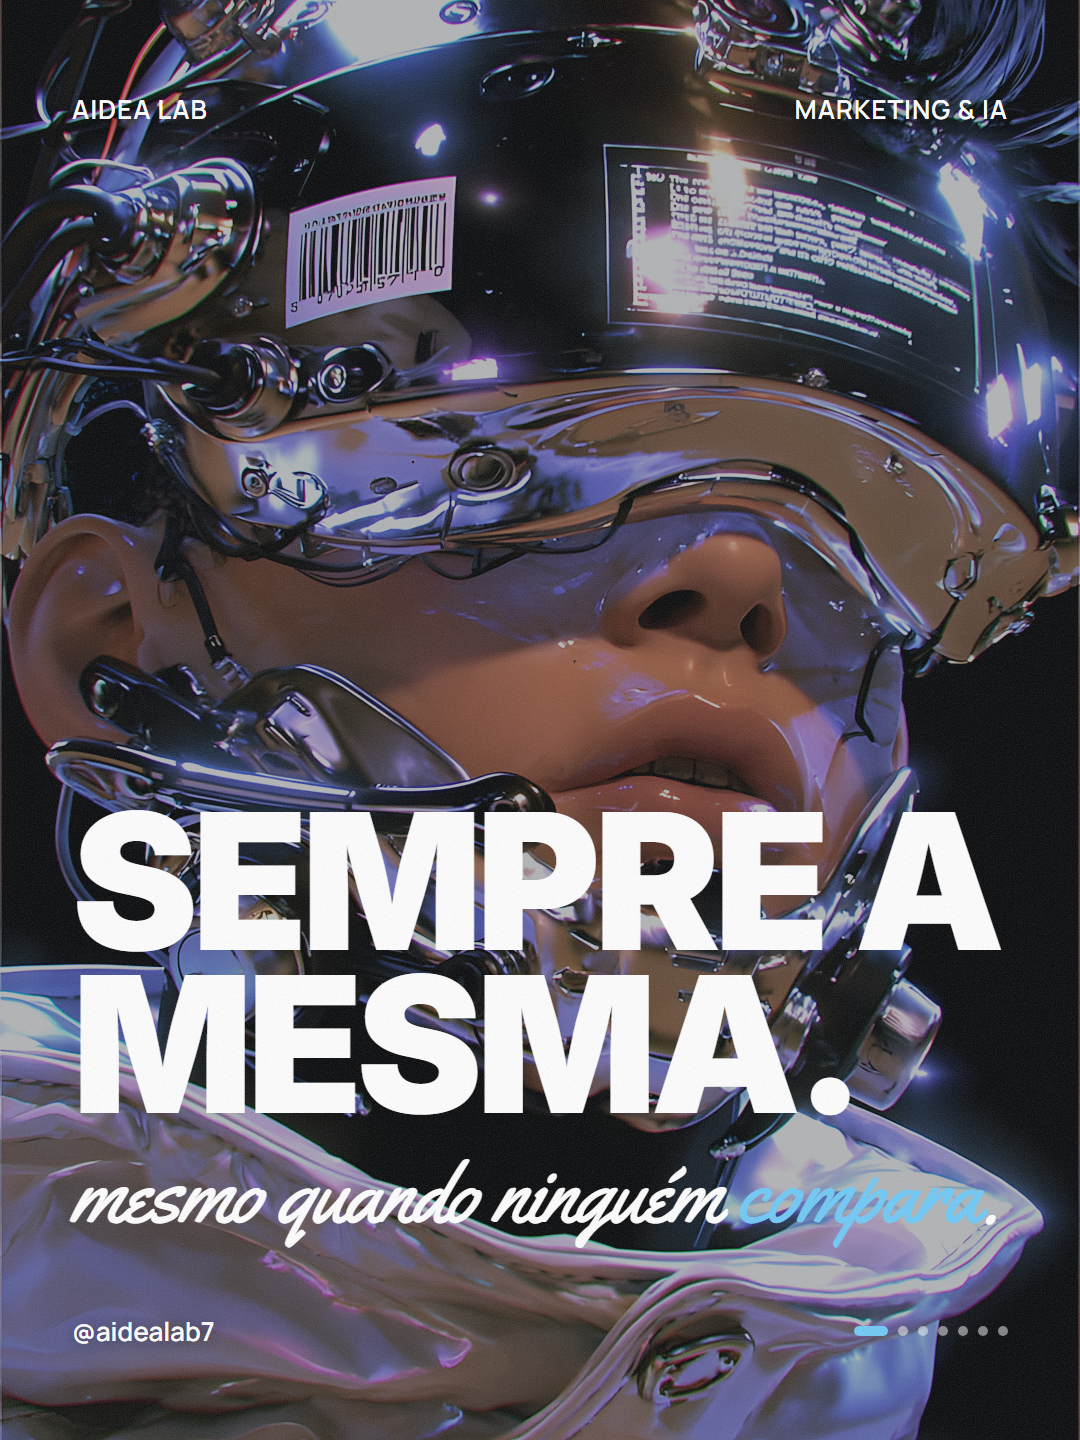
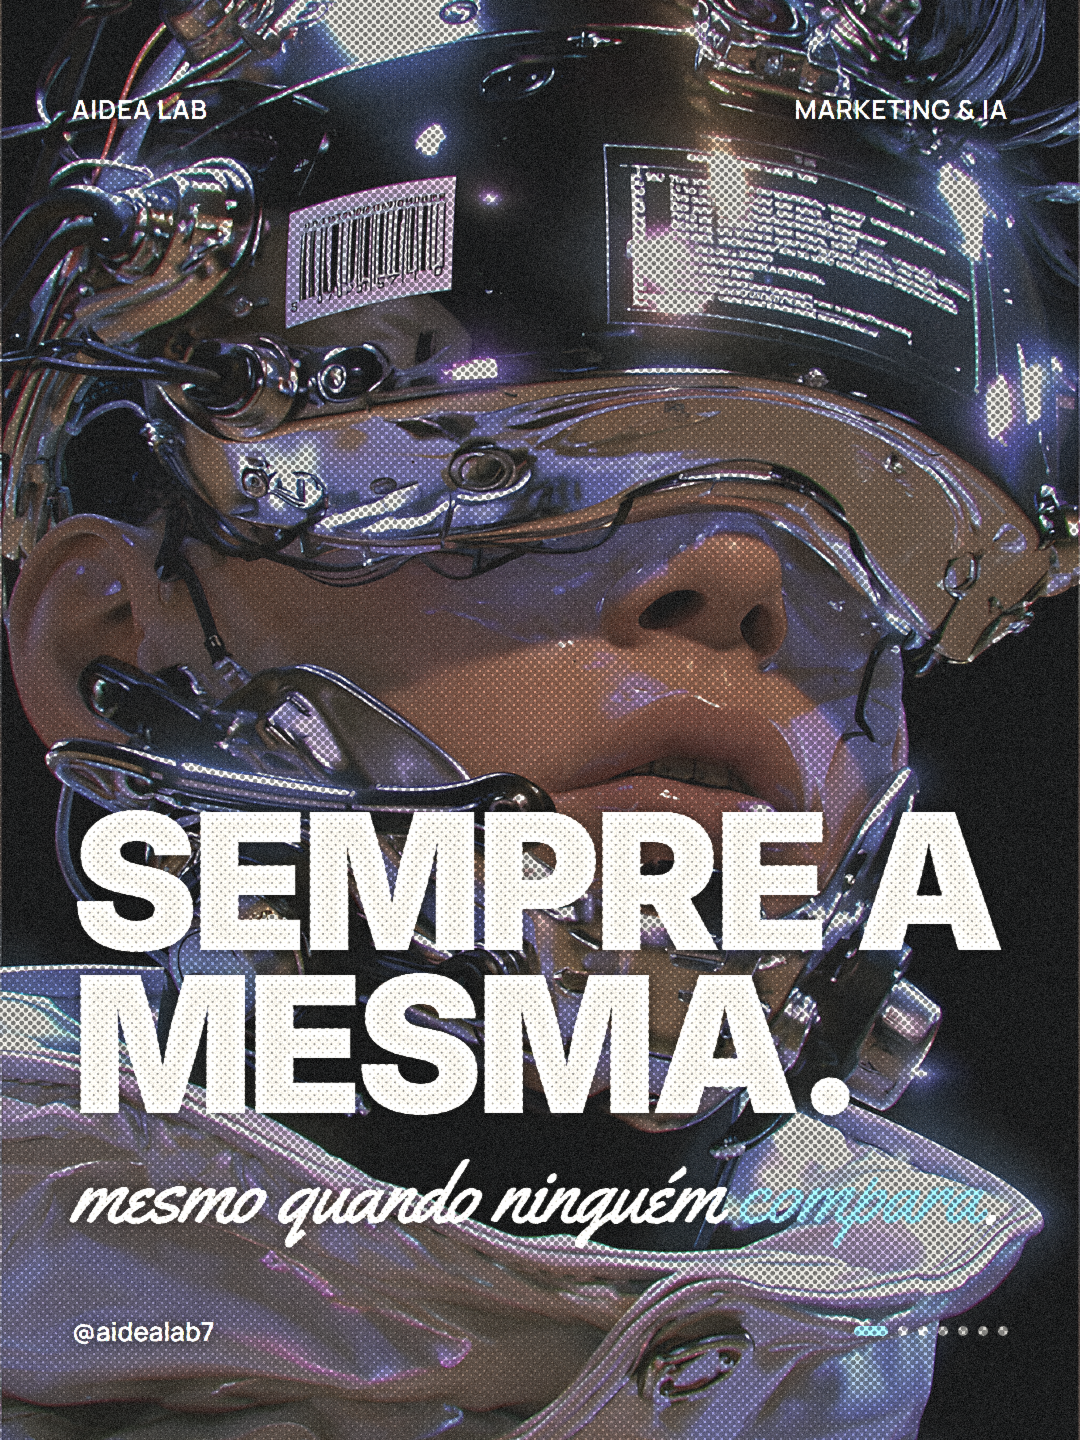
feat(aidealab): textura halftone sempre no hook e no CTA dos carrosséis
- motor/filtro_halftone.py: retícula fina a 45°, pretos levantados, grão (ref. aprovada)
- render.py aplica no slide 1 e no último quando o tema.json tem "halftone": ["hook","cta"]
- tema aidealab liga a textura; sync_fila_drive.py aplica nos aprovados que entram na fila
- fila: 9 carrosséis aprovados ainda não postados atualizados (Dia15–Dia23)

Claude-Session: https://claude.ai/code/session_012KyAE6tAMb32gBy6Q61w6r

diff --git a/motor/filtro_halftone.py b/motor/filtro_halftone.py
@@ -1,0 +1,39 @@
+"""
+Filtro "impresso halftone" (ref. post HALFTONE TEXTURE, aprovado 2026-10-06): retícula AM fina a 45° modulando a
+luminância (média zero: o tom da foto se mantém), pretos levantados, leve dessaturação/aquecimento e grão.
+O render aplica no slide inteiro do hook e do CTA quando o tema.json tem "halftone": ["hook", "cta"].
+
+Uso: python filtro_halftone.py <entrada> [saida]   (sem saida = sobrescreve)
+"""
+import sys
+
+import numpy as np
+from PIL import Image, ImageFilter
+
+
+def halftone(im, cell=6, ang=45, forca=0.45, grao=0.035, seed=7):
+    rgb = np.asarray(im.convert("RGB")).astype(float) / 255
+    h, w = rgb.shape[:2]
+    cell = cell * w / 1080
+    lum = rgb @ [0.2126, 0.7152, 0.0722]
+    yy, xx = np.mgrid[0:h, 0:w].astype(float)
+    a = np.deg2rad(ang)
+    u = (xx * np.cos(a) + yy * np.sin(a)) / cell
+    v = (-xx * np.sin(a) + yy * np.cos(a)) / cell
+    d = np.hypot(u - np.round(u), v - np.round(v)) / 0.7071          # 0 centro .. 1 canto da célula
+    tela = np.clip((d ** 2 - (1 - lum)) * cell * 0.9 + 0.5, 0, 1)      # 1 = papel, 0 = tinta (ponto cresce na sombra)
+    media = np.asarray(Image.fromarray((tela * 255).astype("uint8")).filter(ImageFilter.GaussianBlur(cell))) / 255
+    out = rgb * (1 + forca * (tela - media) * 1.6)[..., None]
+    g = out @ [0.2126, 0.7152, 0.0722]
+    out = out * 0.85 + g[..., None] * 0.15                              # dessatura um pouco
+    out = 0.035 + out * 0.95 * np.array([1.0, 0.985, 0.95])             # pretos levantados, tinta quente
+    out += np.random.default_rng(seed).normal(0, grao, (h, w))[..., None]
+    res = Image.fromarray((out.clip(0, 1) * 255).astype("uint8"))
+    return res.filter(ImageFilter.GaussianBlur(0.35 * w / 1080))
+
+
+if __name__ == "__main__":
+    if len(sys.argv) < 2:
+        sys.exit(__doc__)
+    halftone(Image.open(sys.argv[1])).save(sys.argv[2] if len(sys.argv) > 2 else sys.argv[1])
+    print("OK:", sys.argv[-1])

diff --git a/agente aidealab/automation/sync_fila_drive.py b/agente aidealab/automation/sync_fila_drive.py
@@ -34,6 +34,18 @@ MAX_PENDENTES = 10  # ponytail: buffer fixo de ~10 dias com o PC desligado; aume
 CUIABA = timezone(timedelta(hours=-4))
 DIA_RE = re.compile(r"^Dia(\d+)")
 DRY = "--dry-run" in sys.argv
+sys.path.insert(0, str(REPO / "motor"))
+
+
+def aplicar_halftone(d, meta):
+    """Textura halftone no hook (1º slide) e no CTA (último), padrão aidealab desde 2026-10-06. Idempotente via meta["halftone"]."""
+    if meta.get("halftone") or meta.get("cliente", "aidealab") != "aidealab" or not meta.get("slides"):
+        return
+    from PIL import Image
+    from filtro_halftone import halftone
+    for s in {meta["slides"][0]["arquivo"], meta["slides"][-1]["arquivo"]}:
+        halftone(Image.open(d / s)).save(d / s)
+    meta["halftone"] = True
 
 
 def ler(p):
@@ -126,6 +138,7 @@ def main():
             for s in meta["slides"]:
                 shutil.copy2(d / s["arquivo"], alvo / s["arquivo"])
             meta.update(postado=False, status="aprovado")
+            aplicar_halftone(alvo, meta)
             gravar(alvo / "metadata.json", meta)
         prox += 1
         pendentes += 1

diff --git a/motor/render.py b/motor/render.py
@@ -21,6 +21,8 @@ from pathlib import Path
 from PIL import Image
 from playwright.sync_api import sync_playwright
 
+from filtro_halftone import halftone
+
 W, H = 1080, 1440
 AQUI = Path(__file__).resolve().parent
 
@@ -105,9 +107,12 @@ def main():
             browser.close()
 
     out_dir.mkdir(parents=True, exist_ok=True)
+    ht = {i for k, i in (("hook", 1), ("cta", n)) if k in tema.get("halftone", [])}
     for i, b in enumerate(shots, 1):
         png = out_dir / f"slide-{i:02d}.png"
         png.write_bytes(b)
+        if i in ht:
+            halftone(Image.open(png)).save(png)
         pngs.append(png)
     for png in pngs:
         assert Image.open(png).size == (W, H), f"{png} fora de {W}x{H}"

diff --git a/agente aidealab/clientes/aidealab/design-system/templates/templates.md b/agente aidealab/clientes/aidealab/design-system/templates/templates.md
@@ -59,4 +59,5 @@ quanto for preciso.
 ## Texturas dos slides de texto (2026-10-05)
 
 - Slide 3: `"textura": "grain"`, só grão forte sobre o fundo liso, sem gradiente nem brilho de cor (nada de spotlight ciano ou rosa). O `compor.py` marca sozinho.
+- Hook (slide 1) e CTA (último): textura halftone de impresso (`motor/filtro_halftone.py`), sempre. O `render.py` aplica sozinho pelo `"halftone": ["hook", "cta"]` do `tema.json`; o `sync_fila_drive.py` aplica nos aprovados que entram na fila (marca `"halftone": true` no metadata).
 - Demais slides de lista e o de conclusão: `"textura": "led"`.
